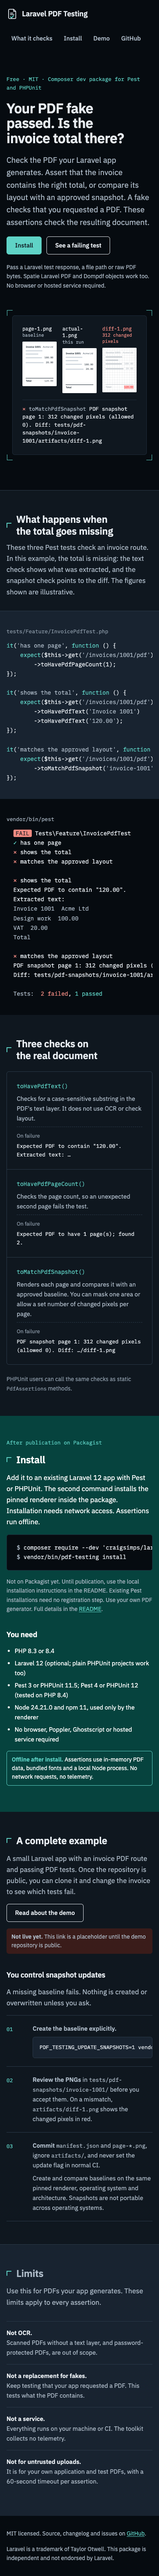
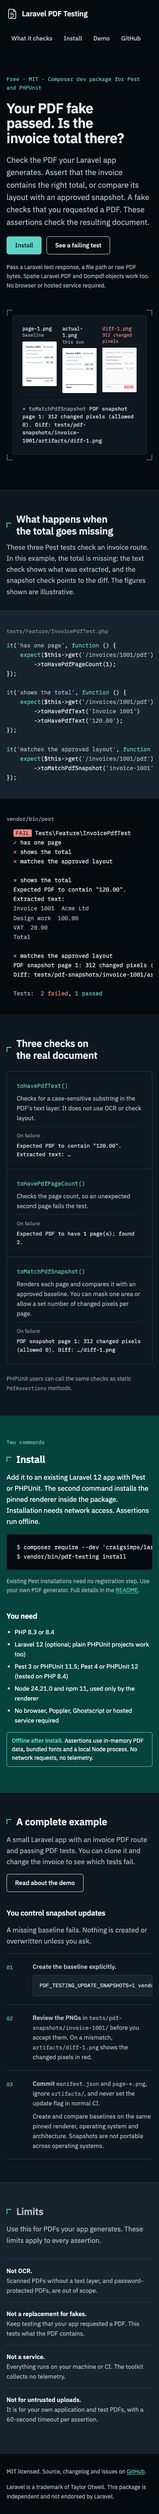
Align the code and terminal panels with the content column; write the page as published
The split section's panes sized their content against the wrap padding
only, so the code panel sat 24px left of the shared content edge at 1440px
and was pushed to 208px at 768px, and the terminal overshot the right edge.
Each pane's content is now half the wrap minus both paddings and only
constrained from 900px up; measured left edges match the column at 1440,
1024, 768 and 390px. Screenshots in docs/launch/previews/alignment/.

Per Craig, the page now reads as already published: the install eyebrow is
'Two commands', the 'Not on Packagist yet' note, the 'Once the repository
is public' clause and the 'Not live yet' demo note are removed. The
non-visible go-live settings (SITE_URL, robots origin, demo href) are
listed in site/README.md.

diff --git a/site/src/styles/site.css b/site/src/styles/site.css
@@ -214,9 +214,15 @@ pre code { font-size: inherit; }
 @media (min-width: 640px) { .pane { padding: 2.5rem 1.5rem; } }
 .pane-code { background: var(--paper-2); border-top: 1px solid var(--line); }
 .pane-term { background: var(--ground); color: var(--ground-text); }
-.pane-inner { max-width: calc(var(--wrap) / 2 - 1.5rem); display: flex; flex-direction: column; gap: 0.75rem; }
-.pane-code .pane-inner { margin-left: auto; }
-.pane-term .pane-inner { margin-right: auto; }
+.pane-inner { display: flex; flex-direction: column; gap: 0.75rem; }
+/* Each pane's content sits in its half of the shared content column: the pane padding (1.5rem) plus
+   the wrap padding (1.5rem) come off half the wrap width, so the code's left edge and the terminal's
+   right edge land exactly on the column edges. Below 900px the panes stack and simply use the pane padding. */
+@media (min-width: 900px) {
+  .pane-inner { max-width: calc(var(--wrap) / 2 - 3rem); }
+  .pane-code .pane-inner { margin-left: auto; }
+  .pane-term .pane-inner { margin-right: auto; }
+}
 .pane-title { font-family: var(--font-mono); font-size: 0.8125rem; color: var(--ink-3); }
 .pane-term .pane-title { color: var(--ground-text-2); }
 .pane pre { border: 0; background: transparent; padding: 0; }

diff --git a/site/README.md b/site/README.md
@@ -52,15 +52,19 @@ Create the project from this repository with these values. Nothing here creates 
 
 `SITE_URL` feeds the canonical link, Open Graph URLs and the sitemap. Until it is set, the build uses the placeholder `https://laravel-pdf-testing.pages.dev`, which also appears in `public/robots.txt`; update both when the real origin is known.
 
-## Before launch
+## Go-live settings
 
-Search `src/pages/index.astro` for `TODO-` and resolve each item:
+The page is written as if the package is already on Packagist and the demo repository is public, because both happen before the site goes live. These non-visible settings still need real values at go-live:
 
-- `TODO-DEMO`: the demo link points at the README's demo section until the demo repository is public.
-- `TODO-PACKAGIST`: the install command assumes `craigsimps/laravel-pdf-testing` is on Packagist.
-- `TODO-ANALYTICS`: analytics are out of scope until Craig decides; the GoatCounter snippet from the approved page is kept as a comment in the source and is not emitted.
+| Where | Setting | Today | At go-live |
+| --- | --- | --- | --- |
+| Cloudflare build environment | `SITE_URL` | unset; `astro.config.mjs` falls back to `https://laravel-pdf-testing.pages.dev` | the final origin, which feeds the canonical link, Open Graph URLs and the sitemap |
+| `public/robots.txt` | `Sitemap:` line | the same placeholder origin | the final origin |
+| `src/pages/index.astro` | `TODO-DEMO`: `href` of the demo button (`id="demo-todo"`) | the README's demo section | the public demo repository URL |
+| `src/pages/index.astro` | `TODO-PACKAGIST` | install command assumes `craigsimps/laravel-pdf-testing:^0.1` is published | publish first, then deploy |
+| `src/pages/index.astro` | `TODO-ANALYTICS` | GoatCounter snippet kept as a source comment, not emitted | Craig's decision; the CSP in `public/_headers` needs a `script-src` entry if enabled |
 
-Astro strips HTML comments from the output, so these notes never reach visitors.
+Search `src/pages/index.astro` for `TODO-` to find each marker. Astro strips HTML comments from the output, so these notes never reach visitors.
 
 ## Checks
 
